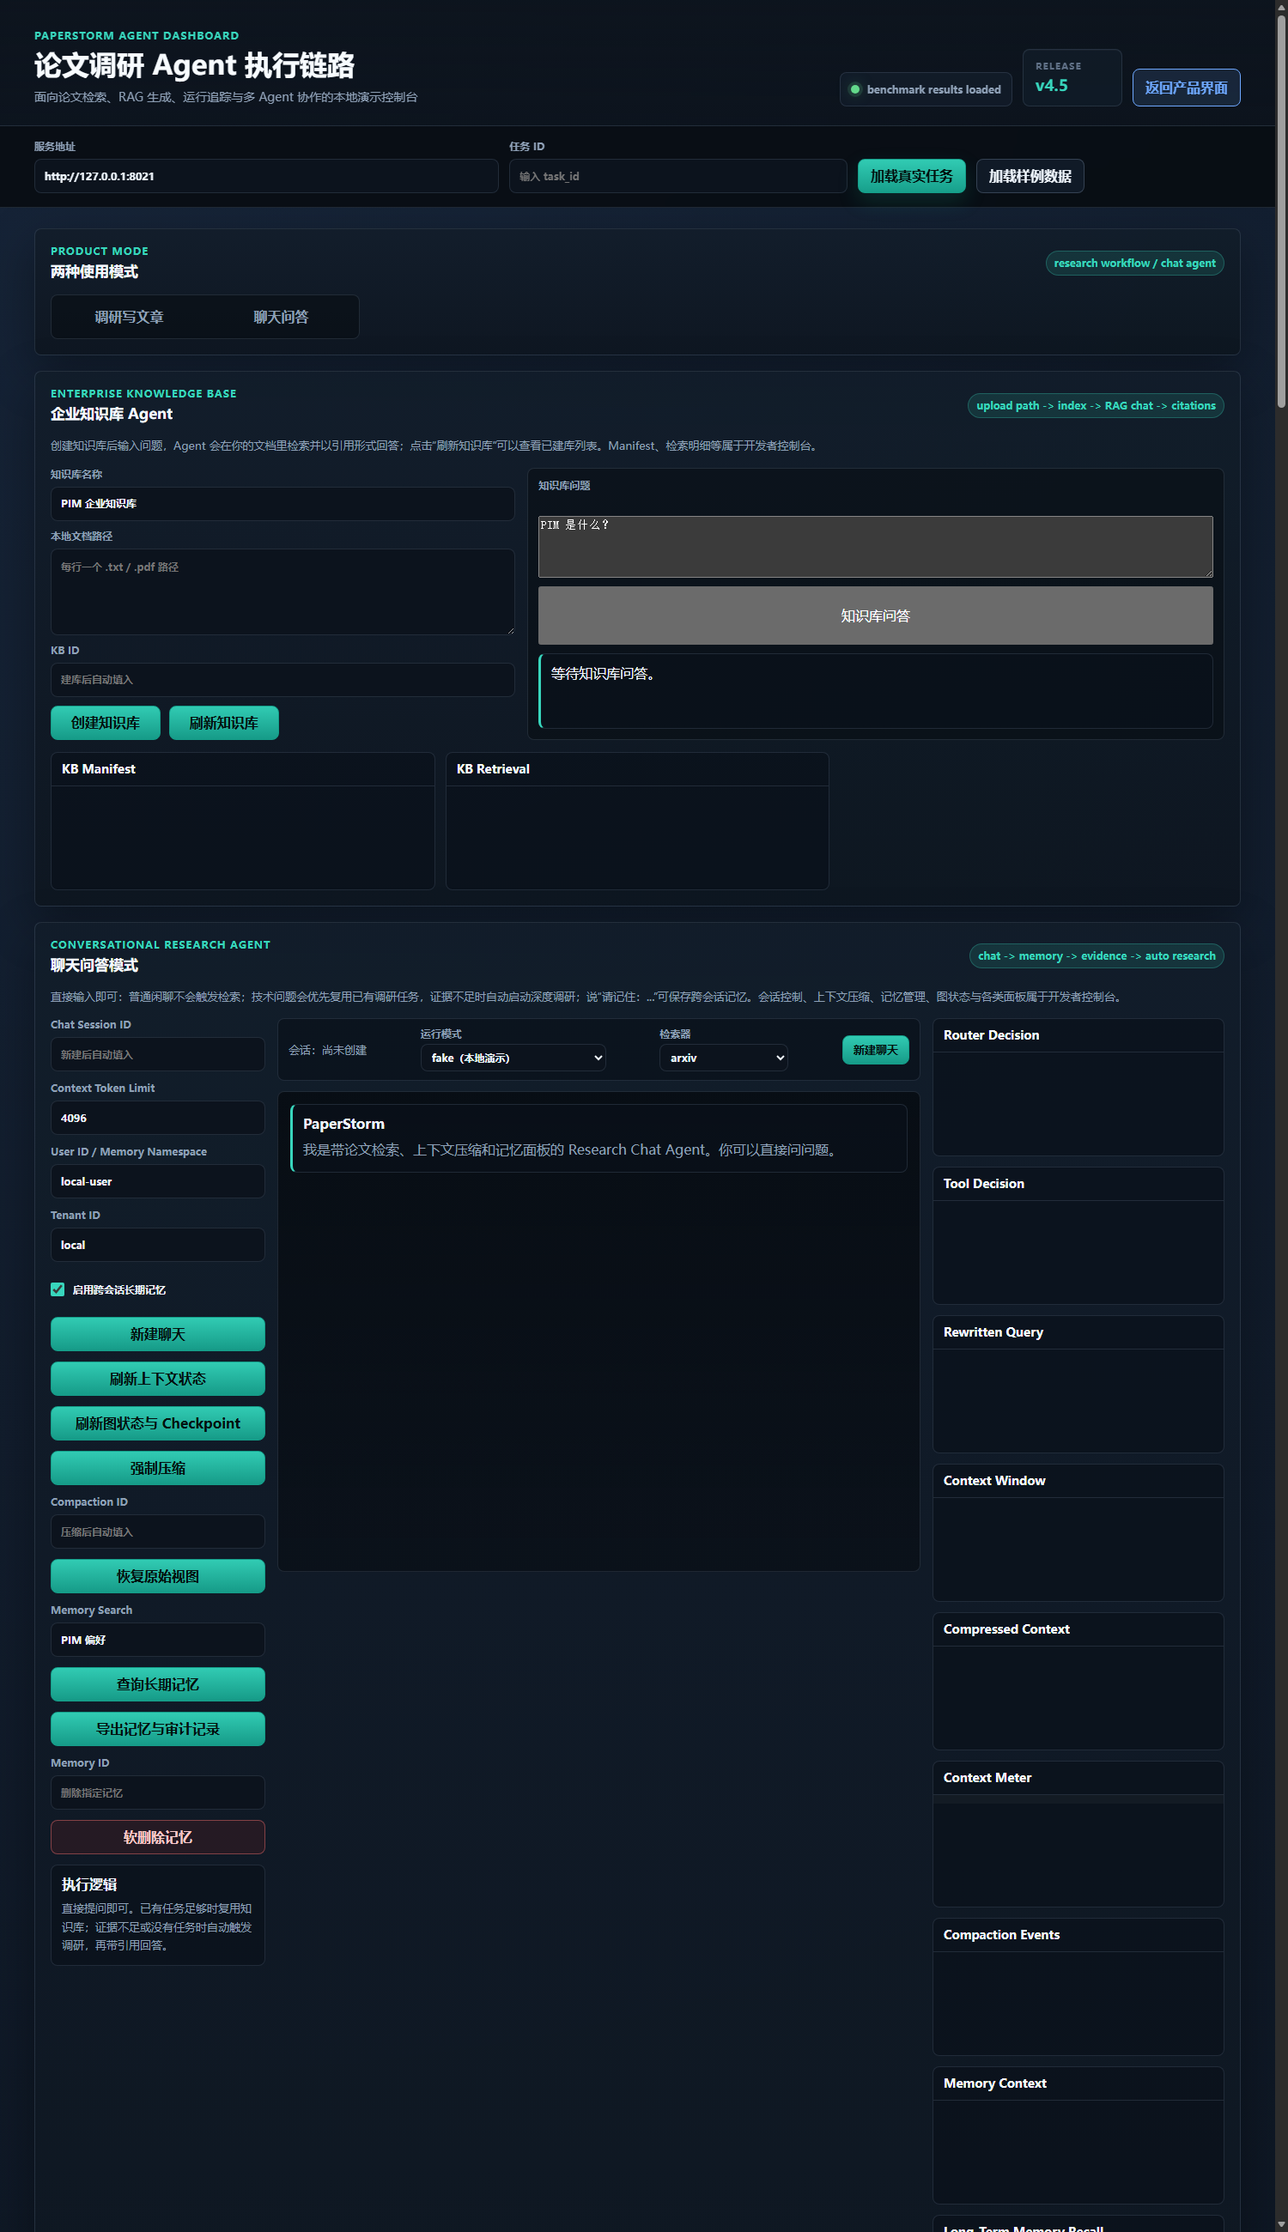
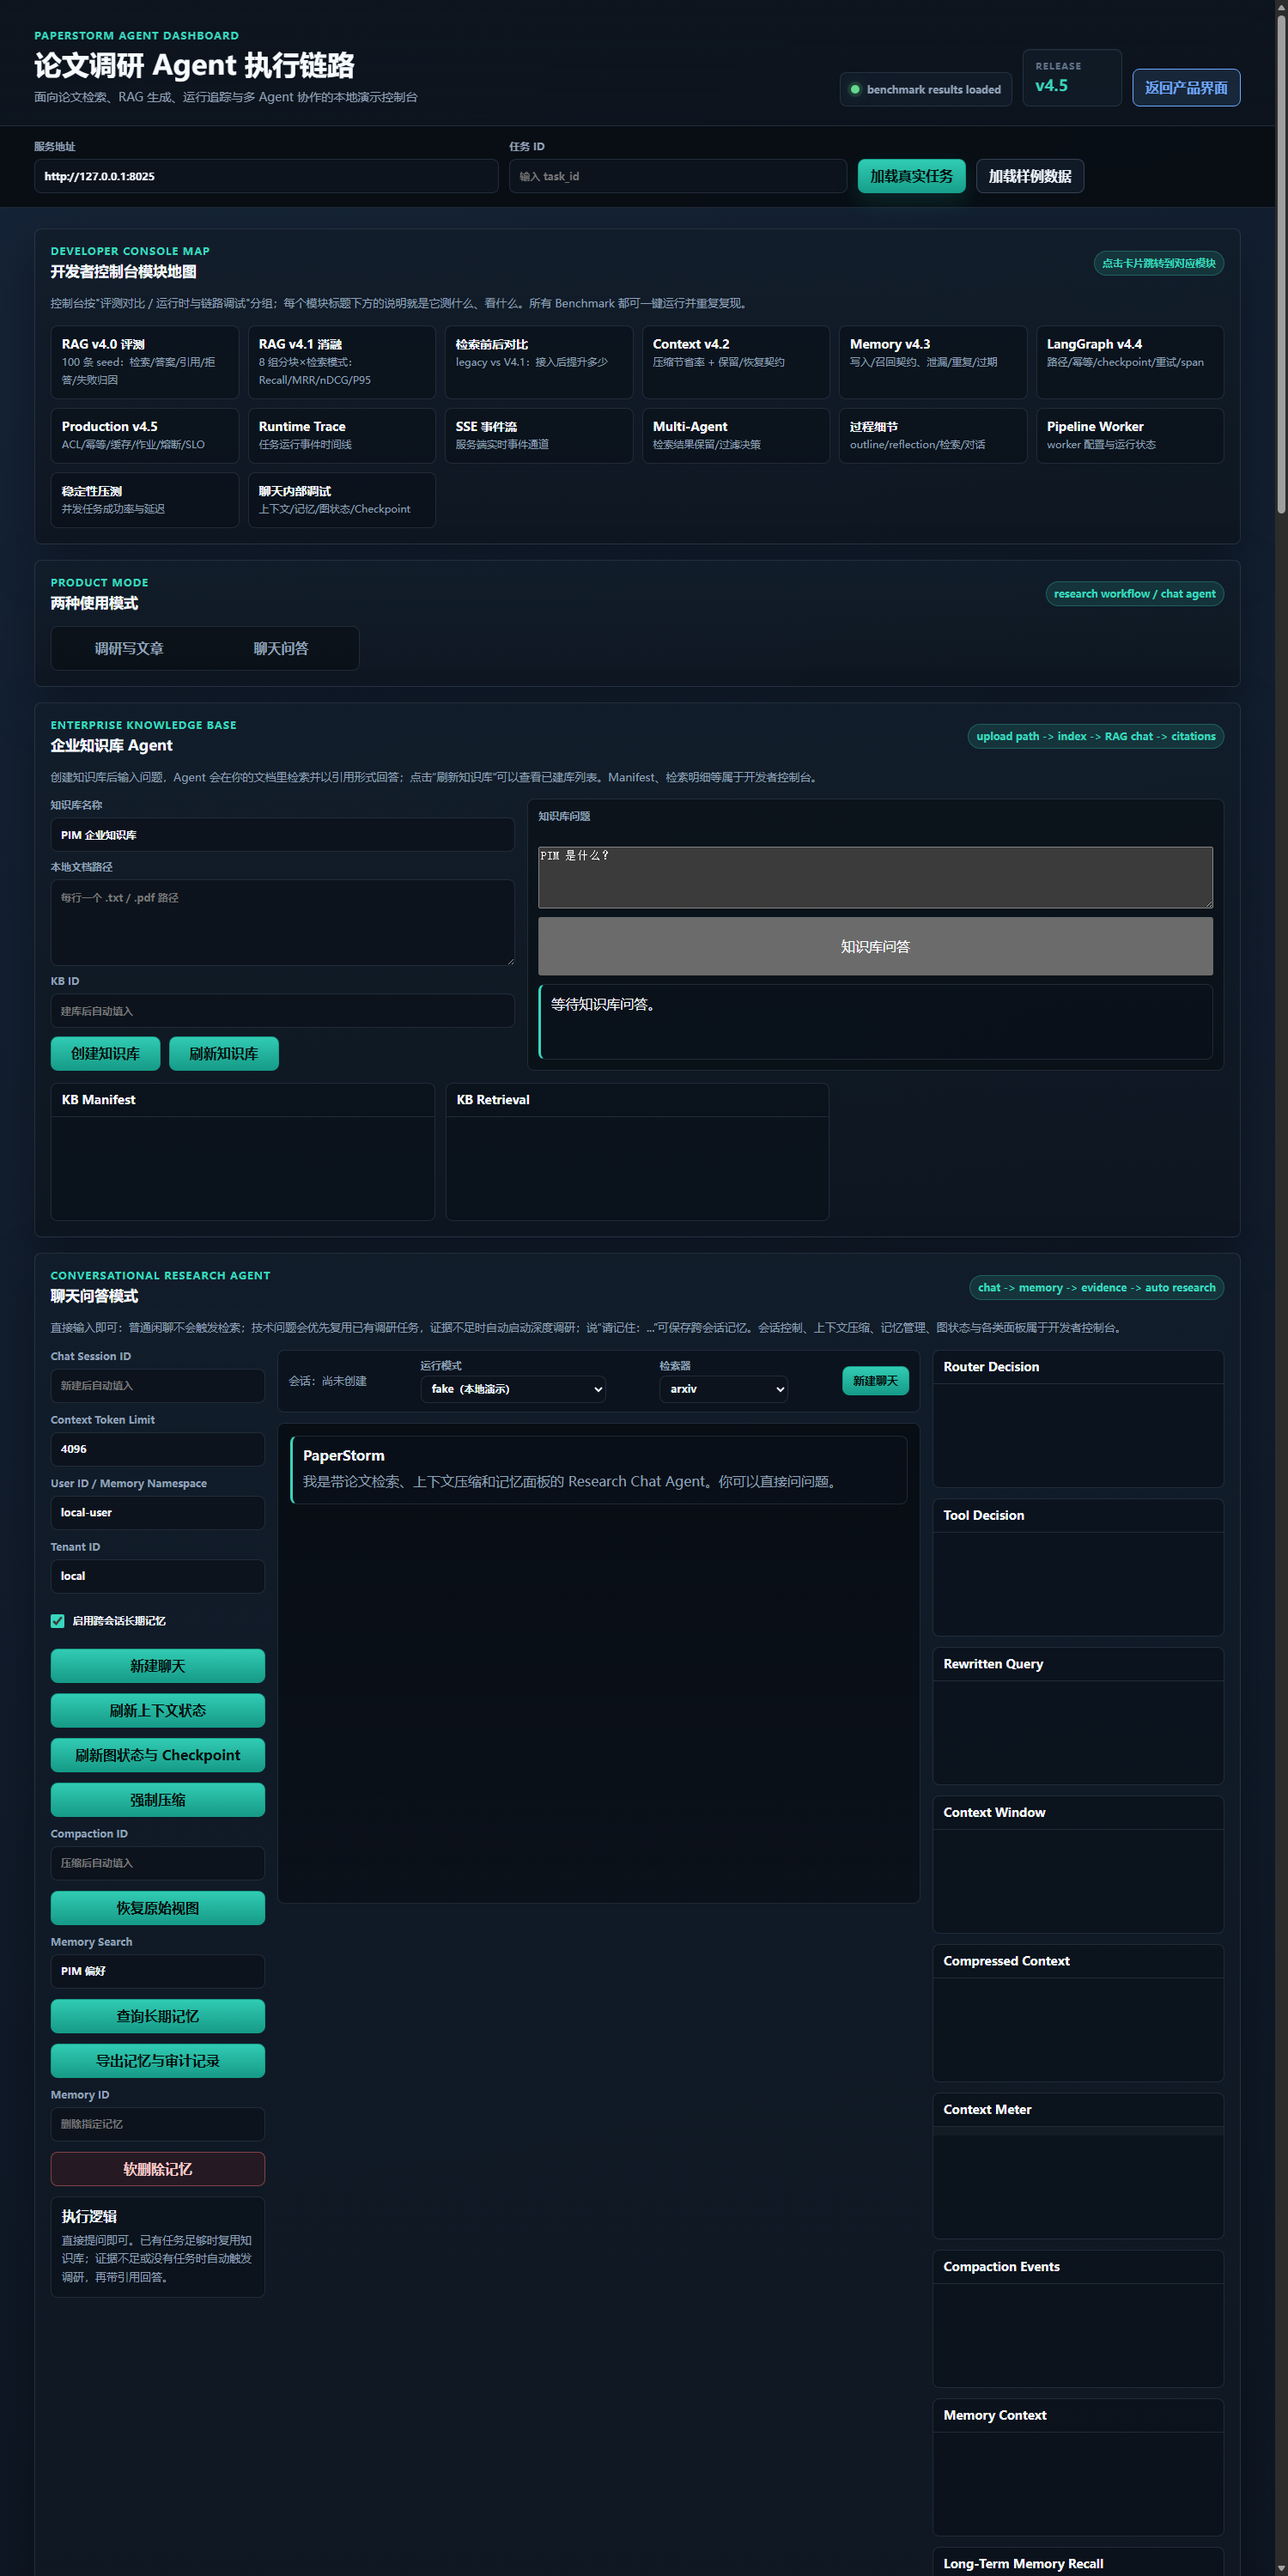
feat(dashboard): group developer console into sections with module map and what-it-tests labels
- Add a developer-console module map (14 clickable cards) so users know what
  each module is for before opening it.
- Group panels under '评测与 Benchmark' and '运行时与链路调试' section headers.
- Every benchmark panel now states '测什么' (metrics and expected results);
  runtime debug panels state '看什么'.
- Regenerate the developer-console screenshot used in README.
- 205 tests pass.

diff --git a/frontend/paperstorm_dashboard/index.html b/frontend/paperstorm_dashboard/index.html
@@ -41,6 +41,33 @@
     </section>
 
     <main class="dashboard-grid">
+      <section class="panel wide developer-mode-panel" id="developer-console-index">
+        <div class="panel-heading">
+          <div>
+            <p class="section-kicker">Developer Console Map</p>
+            <h2>开发者控制台模块地图</h2>
+          </div>
+          <span class="soft-badge">点击卡片跳转到对应模块</span>
+        </div>
+        <p class="panel-copy">控制台按"评测对比 / 运行时与链路调试"分组；每个模块标题下方的说明就是它测什么、看什么。所有 Benchmark 都可一键运行并重复复现。</p>
+        <div class="dev-module-grid">
+          <a class="dev-module-card" href="#rag-eval-v4-panel"><strong>RAG v4.0 评测</strong><span>100 条 seed：检索/答案/引用/拒答/失败归因</span></a>
+          <a class="dev-module-card" href="#rag-eval-v41-panel"><strong>RAG v4.1 消融</strong><span>8 组分块×检索模式：Recall/MRR/nDCG/P95</span></a>
+          <a class="dev-module-card" href="#retrieval-runtime-panel"><strong>检索前后对比</strong><span>legacy vs V4.1：接入后提升多少</span></a>
+          <a class="dev-module-card" href="#context-v42-panel"><strong>Context v4.2</strong><span>压缩节省率 + 保留/恢复契约</span></a>
+          <a class="dev-module-card" href="#memory-v43-panel"><strong>Memory v4.3</strong><span>写入/召回契约、泄漏/重复/过期</span></a>
+          <a class="dev-module-card" href="#runtime-v44-panel"><strong>LangGraph v4.4</strong><span>路径/幂等/checkpoint/重试/span</span></a>
+          <a class="dev-module-card" href="#production-v45-panel"><strong>Production v4.5</strong><span>ACL/幂等/缓存/作业/熔断/SLO</span></a>
+          <a class="dev-module-card" href="#trace-panel"><strong>Runtime Trace</strong><span>任务运行事件时间线</span></a>
+          <a class="dev-module-card" href="#sse-panel"><strong>SSE 事件流</strong><span>服务端实时事件通道</span></a>
+          <a class="dev-module-card" href="#multi-agent-panel"><strong>Multi-Agent</strong><span>检索结果保留/过滤决策</span></a>
+          <a class="dev-module-card" href="#process-panel"><strong>过程细节</strong><span>outline/reflection/检索/对话</span></a>
+          <a class="dev-module-card" href="#pipeline-worker-panel"><strong>Pipeline Worker</strong><span>worker 配置与运行状态</span></a>
+          <a class="dev-module-card" href="#stress-panel"><strong>稳定性压测</strong><span>并发任务成功率与延迟</span></a>
+          <a class="dev-module-card" href="#chat-mode-panel"><strong>聊天内部调试</strong><span>上下文/记忆/图状态/Checkpoint</span></a>
+        </div>
+      </section>
+
       <section class="panel wide" id="mode-switcher">
         <div class="panel-heading">
           <div>
@@ -387,6 +414,11 @@
         <div id="scorecard" class="metric-grid"></div>
       </section>
 
+      <div class="dev-section-header" id="dev-section-eval">
+        <h3>评测与 Benchmark</h3>
+        <p>全部可一键复现：每个模块下方都写了"测什么"和"结果怎么看"。</p>
+      </div>
+
       <section class="panel wide developer-mode-panel" id="rag-eval-v4-panel">
         <div class="panel-heading">
           <div>
@@ -399,7 +431,7 @@
           <button id="run-rag-eval-v4" type="button">运行 v4.0 基线</button>
           <button id="load-rag-eval-v4" type="button">加载最近报告</button>
         </div>
-        <p class="panel-copy">内置集合用于回归和演示，包含 20 个受控事实的四种问法以及 20 个无答案问题；它被明确标记为种子集，不能替代人工审核的真实论文 Golden Set。</p>
+        <p class="panel-copy">测什么：100 条可审计 seed 的 pass rate、Recall@K、MRR、nDCG、必需词召回、引用 Precision/Recall、拒答准确率与失败阶段归因（retrieval/rerank/compression/generation/citation）。内置集合含 20 个受控事实的四种问法加 20 个无答案问题，属于种子集而非人工审核的 Golden Set。</p>
         <div id="rag-eval-v4-metrics" class="metric-grid"></div>
         <div class="qa-debug-grid">
           <section class="debug-card">
@@ -427,7 +459,7 @@
           <button id="run-rag-eval-v41" type="button">运行八组 Smoke 实验</button>
           <button id="load-rag-eval-v41" type="button">加载最近 V4.1 报告</button>
         </div>
-        <p class="panel-copy">网页按钮使用确定性 Embedding 快速检查完整评测链路；真实多语种 Dense、Cross-Encoder 与 Zotero 论文实验请运行 V4.1 CLI，避免模型下载阻塞 Web 请求。</p>
+        <p class="panel-copy">测什么：ordinary/contextual 分块 × BM25/Dense/Hybrid/Hybrid+Rerank 共 8 组的 Recall@K/MRR/nDCG/P95，找出最优检索配置。网页按钮用确定性 Embedding 快速检查链路；真实多语种与 Zotero 论文实验请运行 V4.1 CLI。</p>
         <div class="table-scroll">
           <table class="eval-table">
             <thead>
@@ -459,7 +491,7 @@
         <div class="button-row">
           <button id="run-context-v42-benchmark" type="button">运行 Context Benchmark</button>
         </div>
-        <p class="panel-copy">已接入聊天链路（真实 ContextEngine 负责每轮压缩与 compaction_id 恢复）。本 Benchmark 对比压缩前后的 token 与保留率；摘要是派生视图，原始 JSONL 事件不会被覆盖。</p>
+        <p class="panel-copy">测什么：token 节省率、约束/实体/待办保留率、工具调用配对、按 compaction_id 精确恢复、重复压缩保留。已接入聊天链路（真实 ContextEngine 每轮执行）；摘要是派生视图，原始 JSONL 永不被覆盖。</p>
         <div id="context-v42-metrics" class="metric-grid"></div>
         <pre id="context-v42-summary"></pre>
       </section>
@@ -475,7 +507,7 @@
         <div class="button-row">
           <button id="run-memory-v43-benchmark" type="button">运行 Memory Benchmark</button>
         </div>
-        <p class="panel-copy">已接入聊天链路（LongTermMemoryService 负责跨会话写入/召回/治理）。本 Benchmark 对比写入精度、Recall@K、过期事实误用、跨用户泄漏、重复率和 P95 延迟。</p>
+        <p class="panel-copy">测什么：写入精度、Recall@K、过期事实误用、跨 namespace 泄漏、重复率、启用/禁用开关与延迟吞吐。已接入聊天链路（LongTermMemoryService 负责跨会话写入/召回/治理）。</p>
         <div id="memory-v43-metrics" class="metric-grid"></div>
         <pre id="memory-v43-summary"></pre>
       </section>
@@ -492,7 +524,7 @@
           <button id="run-runtime-v44-benchmark" type="button">运行 Runtime Benchmark</button>
           <button id="load-runtime-v44-benchmark" type="button">加载最近报告</button>
         </div>
-        <p class="panel-copy">验证路由路径、SQLite checkpoint 恢复、瞬时失败重试、请求幂等、跨用户记忆隔离、trace span 覆盖和 STORM 工具产物契约。</p>
+        <p class="panel-copy">测什么：路径准确率、SQLite checkpoint 恢复、瞬时失败重试、请求幂等、跨用户记忆隔离、trace span 覆盖和 STORM 工具产物契约（期望全部 1.0、泄漏 0）。</p>
         <div id="runtime-v44-metrics" class="metric-grid"></div>
         <pre id="runtime-v44-summary"></pre>
       </section>
@@ -515,7 +547,7 @@
           Trace ID
           <input id="production-v45-trace-id" placeholder="聊天后自动填入" />
         </label>
-        <p class="panel-copy">展示本地 SQLite WAL 治理热路径的 P50/P95/P99、QPS、错误率、降级率、缓存命中、ACL 隔离、作业恢复和 span。真实 LLM/网络压测需在部署环境另行执行。</p>
+        <p class="panel-copy">测什么：本地 SQLite WAL 治理热路径的 P50/P95/P99、QPS、错误率、降级率、缓存命中、ACL 隔离、作业恢复和 span 覆盖（契约指标期望错误率/泄漏 0、幂等/恢复/span 1.0）。真实 LLM/网络压测需在部署环境另行执行。</p>
         <div id="production-v45-metrics" class="metric-grid"></div>
         <div class="qa-debug-grid">
           <section class="debug-card">
@@ -553,7 +585,7 @@
           <button id="run-retrieval-runtime" type="button">运行检索对比 Benchmark</button>
           <button id="load-retrieval-runtime" type="button">加载最近报告</button>
         </div>
-        <p class="panel-copy">同一 100 条可审计 seed 集上对比 legacy（词法重叠 + hash 向量）与 V4.1（BM25 + Dense + RRF）：<code>PAPERSTORM_RETRIEVAL_STACK=v41</code> 已接入聊天/知识库；<code>PAPERSTORM_RETRIEVAL_EMBEDDING=real</code> 可切换真实向量模型。</p>
+        <p class="panel-copy">测什么：同一 100 条 seed 集上 legacy（词法重叠 + hash 向量）与 V4.1（BM25 + Dense + RRF）的 Recall@K/MRR/nDCG/延迟对比，证明接入后提升多少；接入状态卡片同步展示各模块是否已接入聊天链路。</p>
         <div class="table-scroll">
           <table class="eval-table">
             <thead>
@@ -580,18 +612,26 @@
         <div id="qa-answer" class="stack"></div>
       </section>
 
+      <div class="dev-section-header" id="dev-section-runtime">
+        <h3>运行时与链路调试</h3>
+        <p>看链路怎么跑、为什么这么跑：Trace / SSE / Multi-Agent / 过程细节 / Worker / 压测，以及聊天内部的状态与记忆调试。</p>
+      </div>
+
       <section class="panel developer-mode-panel" id="trace-panel">
         <h2>Runtime Trace</h2>
+        <p class="panel-copy">看什么：任务从提交到完成的运行事件时间线（工具调用、状态流转、错误），用于定位一次调研卡在哪一步。</p>
         <ol id="trace-list" class="timeline"></ol>
       </section>
 
       <section class="panel developer-mode-panel" id="sse-panel">
         <h2>SSE 事件流</h2>
+        <p class="panel-copy">看什么：服务端实时事件（连接、心跳、任务状态），确认前端与服务的实时通道是否连通。</p>
         <ol id="sse-event-list" class="timeline"></ol>
       </section>
 
       <section class="panel wide developer-mode-panel" id="multi-agent-panel">
         <h2>Multi-Agent 编排</h2>
+        <p class="panel-copy">看什么：调研检索结果的 Multi-Agent 保留/过滤决策——哪些结果被保留、哪些被过滤及原因。</p>
         <div id="multi-agent" class="stack"></div>
       </section>
 
@@ -603,6 +643,7 @@
           </div>
           <span class="soft-badge">outline / reflection / conversation / search</span>
         </div>
+        <p class="panel-copy">看什么：单次调研的过程产物——outline、reflection/总结、计划与检索、访谈式对话记录。</p>
         <div class="process-grid">
           <section class="process-card">
             <h3>Outline</h3>
@@ -625,11 +666,13 @@
 
       <section class="panel developer-mode-panel" id="pipeline-worker-panel">
         <h2>Pipeline Worker</h2>
+        <p class="panel-copy">看什么：Pipeline Worker 的 runner、运行模式、检索器、LLM 配置与当前状态。</p>
         <div id="pipeline-worker" class="metric-grid"></div>
       </section>
 
       <section class="panel wide developer-mode-panel" id="stress-panel">
         <h2>稳定性压测</h2>
+        <p class="panel-copy">看什么：并发任务压测统计——总任务数、成功/失败、失败率与延迟分位。</p>
         <div id="stress-report" class="metric-grid"></div>
       </section>
     </main>

diff --git a/frontend/paperstorm_dashboard/styles.css b/frontend/paperstorm_dashboard/styles.css
@@ -396,6 +396,58 @@ body[data-mode="developer"] .dashboard-grid {
   width: min(1680px, 100%);
 }
 
+.dev-section-header {
+  grid-column: 1 / -1;
+  padding: 10px 2px 2px;
+  border-bottom: 1px solid var(--line);
+}
+
+.dev-section-header h3 {
+  margin: 0 0 4px;
+  color: var(--accent);
+  font-size: 16px;
+}
+
+.dev-section-header p {
+  margin: 0 0 4px;
+  color: var(--muted);
+  font-size: 13px;
+  line-height: 1.6;
+}
+
+.dev-module-grid {
+  display: grid;
+  grid-template-columns: repeat(auto-fill, minmax(210px, 1fr));
+  gap: 10px;
+}
+
+.dev-module-card {
+  display: block;
+  padding: 12px;
+  border: 1px solid var(--line);
+  border-radius: 8px;
+  background: rgba(10, 17, 26, 0.72);
+  color: var(--ink);
+  text-decoration: none;
+}
+
+.dev-module-card:hover {
+  border-color: var(--accent);
+  background: var(--panel-hover);
+}
+
+.dev-module-card strong {
+  display: block;
+  color: #f7fbff;
+  font-size: 14px;
+}
+
+.dev-module-card span {
+  color: var(--muted);
+  font-size: 12px;
+  line-height: 1.5;
+}
+
 .panel-copy {
   margin: 0 0 14px;
   color: var(--muted);

diff --git a/tests/test_paperstorm_frontend_docs.py b/tests/test_paperstorm_frontend_docs.py
@@ -241,6 +241,26 @@ class PaperStormFrontendDocsTest(unittest.TestCase):
         self.assertIn("/evaluations/context-v42/latest", script)
         self.assertIn("/evaluations/memory-v43/latest", script)
 
+    def test_developer_console_has_module_map_and_grouped_sections(self):
+        root = Path(__file__).resolve().parents[1]
+        index = (root / "frontend" / "paperstorm_dashboard" / "index.html").read_text(
+            encoding="utf-8"
+        )
+        styles = (root / "frontend" / "paperstorm_dashboard" / "styles.css").read_text(
+            encoding="utf-8"
+        )
+
+        self.assertIn("developer-console-index", index)
+        self.assertIn("dev-module-grid", index)
+        self.assertIn("dev-module-card", index)
+        self.assertIn('href="#rag-eval-v4-panel"', index)
+        self.assertIn('href="#chat-mode-panel"', index)
+        self.assertIn("dev-section-eval", index)
+        self.assertIn("dev-section-runtime", index)
+        self.assertIn("测什么", index)
+        self.assertIn(".dev-module-grid", styles)
+        self.assertIn(".dev-section-header", styles)
+
     def test_dashboard_exposes_enterprise_kb_v32_workflow(self):
         root = Path(__file__).resolve().parents[1]
         index = (root / "frontend" / "paperstorm_dashboard" / "index.html").read_text(
